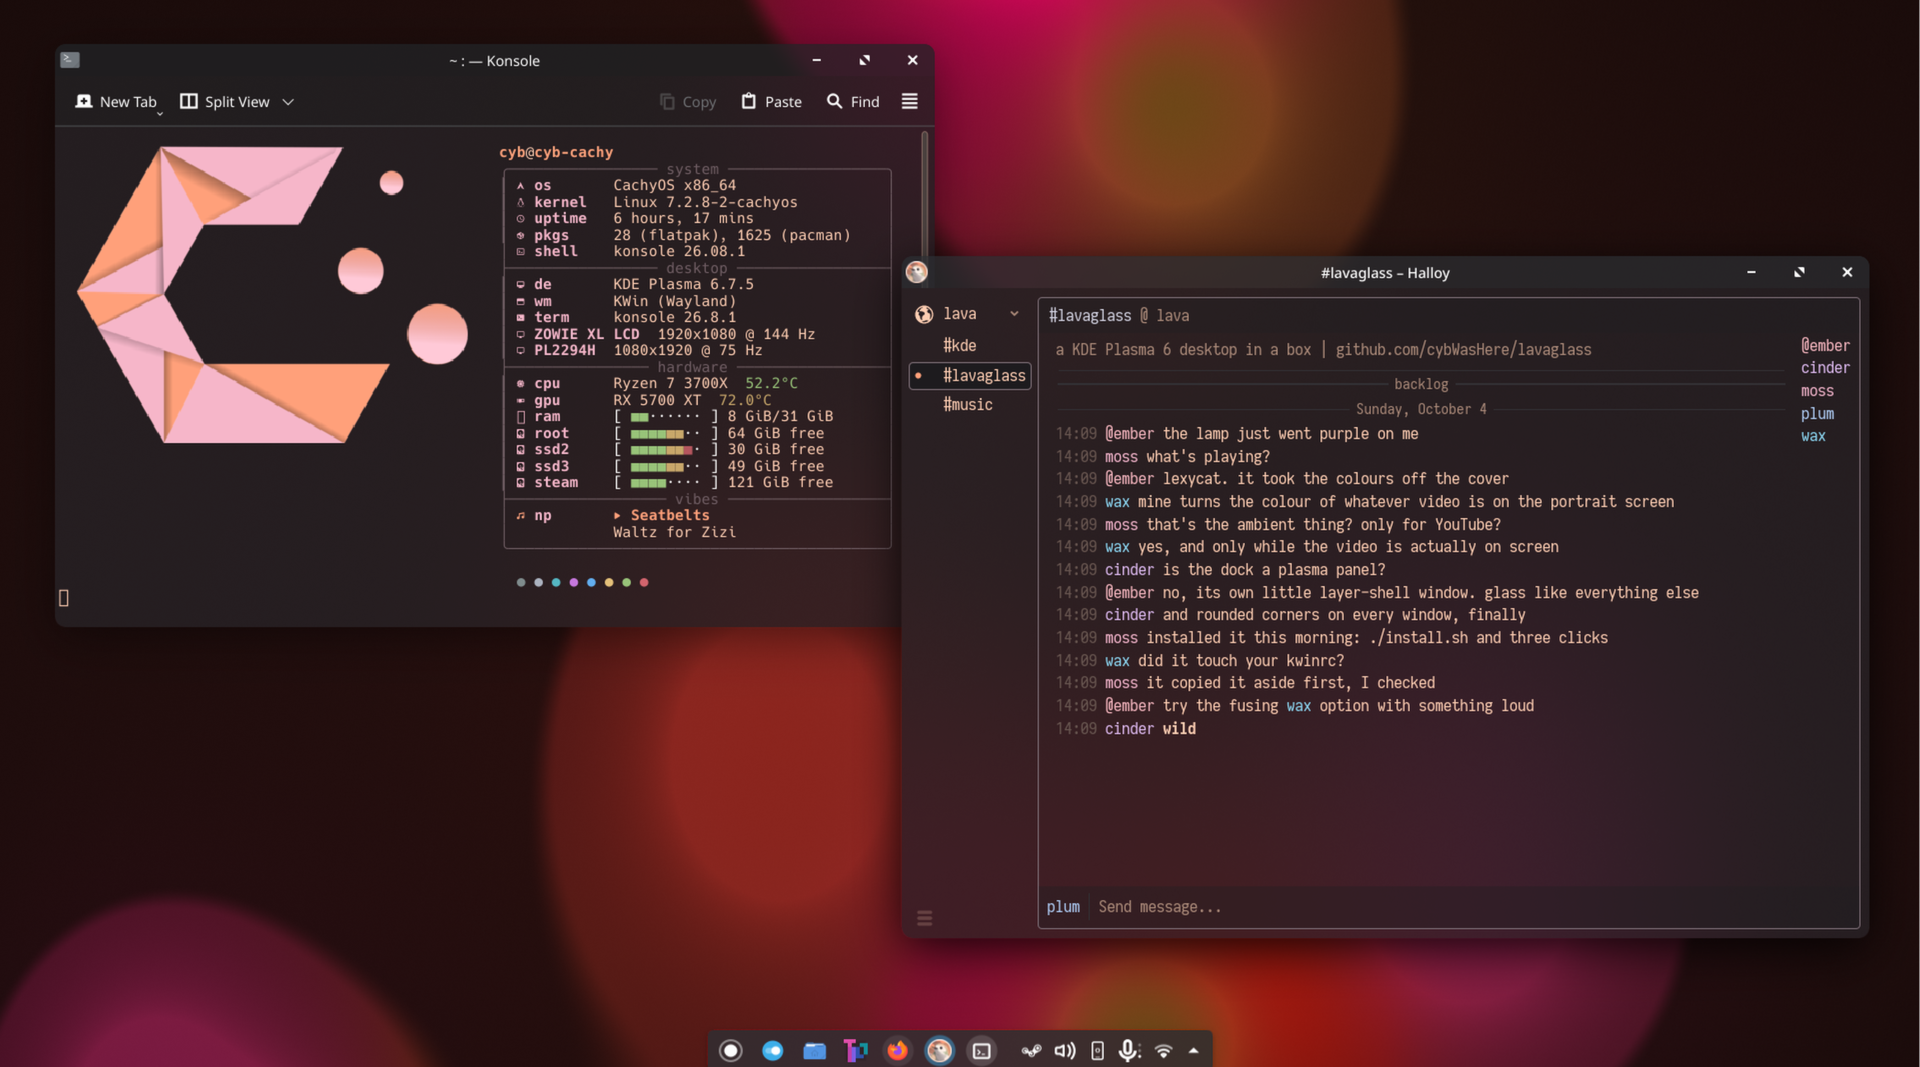
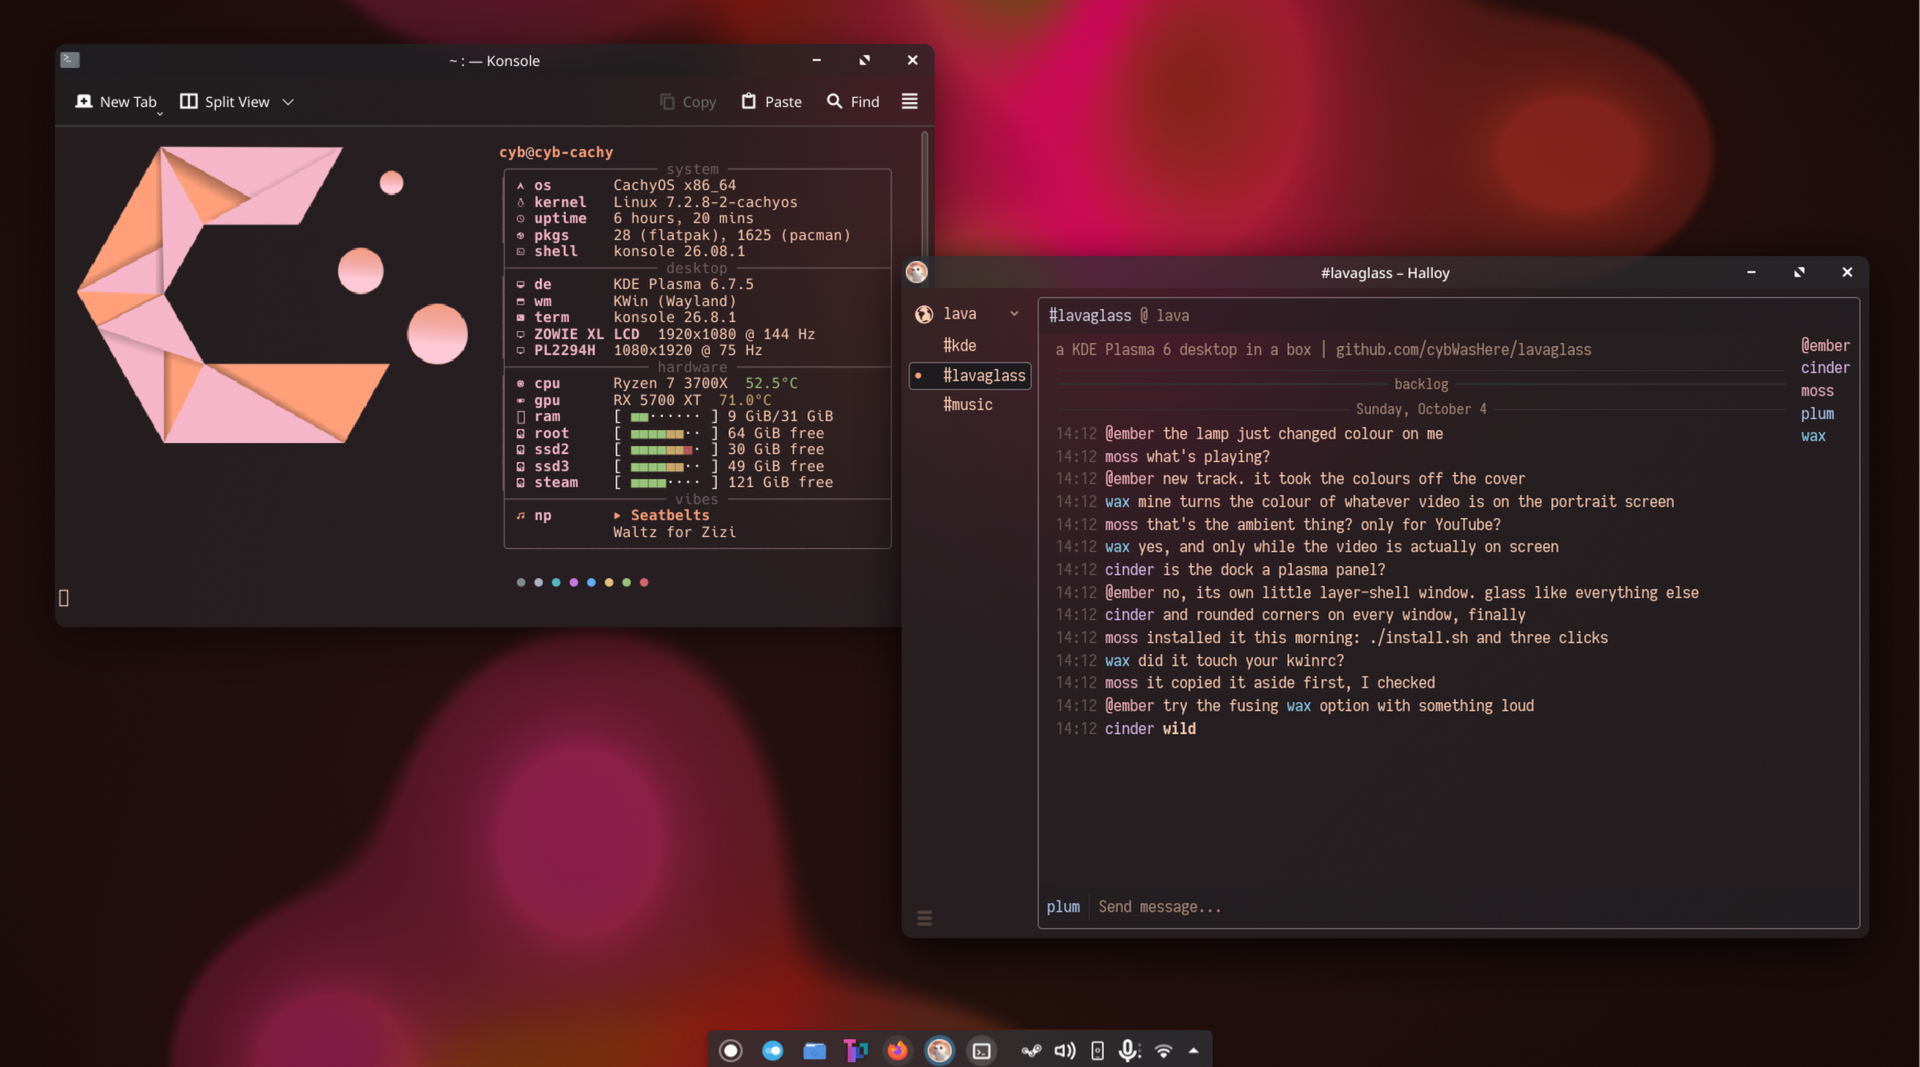
Screenshots retaken: borderless dock, installer over the lamp, Pear Remote under the dock

diff --git a/README.md b/README.md
@@ -32,6 +32,13 @@ One installer. No root, everything in your home folder, every part optional.
 - **Glass Dock**: time, date, weather and now playing in a glass pill at the top of a screen, with
   a little equaliser. Hover for seconds, a calendar and the week's forecast; click the track to
   play or pause. Weather is from [Open-Meteo](https://open-meteo.com), free and without a key.
+
+  <img src="screenshots/pear-remote.png" width="420" alt="Glass Dock with Pear Remote open under it: the track, its controls and the queue in a glass card">
+
+  On the desktop this was built for, pointing at the track also drops down
+  [Pear Remote](https://github.com/cybWasHere/obs-pear-remote), the full remote for Pear Desktop,
+  as a glass card: queue, search, likes, volume. The remote is its own project, and the card that
+  hosts it is not in this installer yet.
 - **Glass windows**: Konsole, Halloy, Chatterino and OBS at 80% over blur, title bars included.
   Firefox's toolbar and tabs too, if you opt in; pages stay opaque.
 - **Rounded corners on every window**, with no borders, so the content itself is rounded and not
